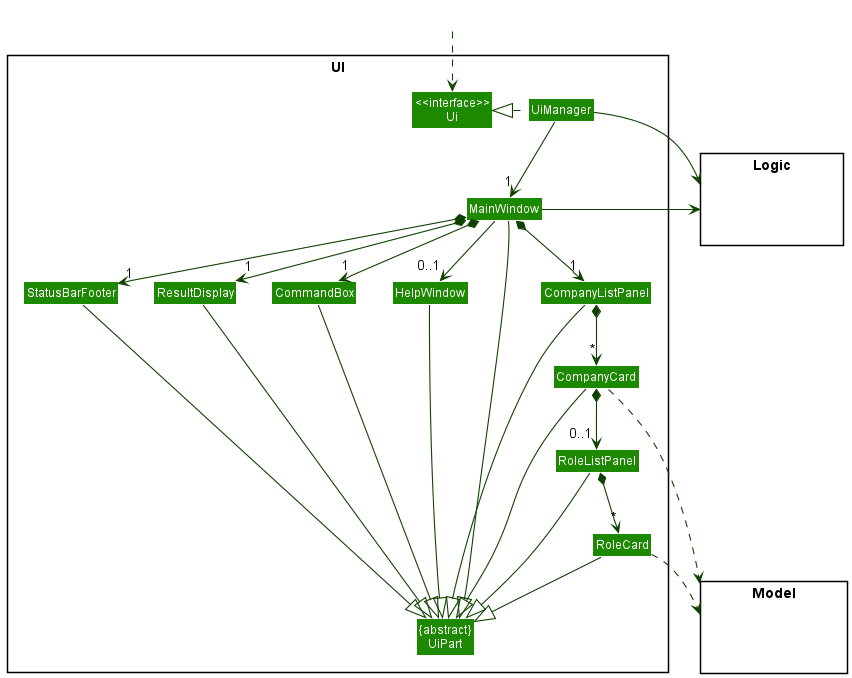
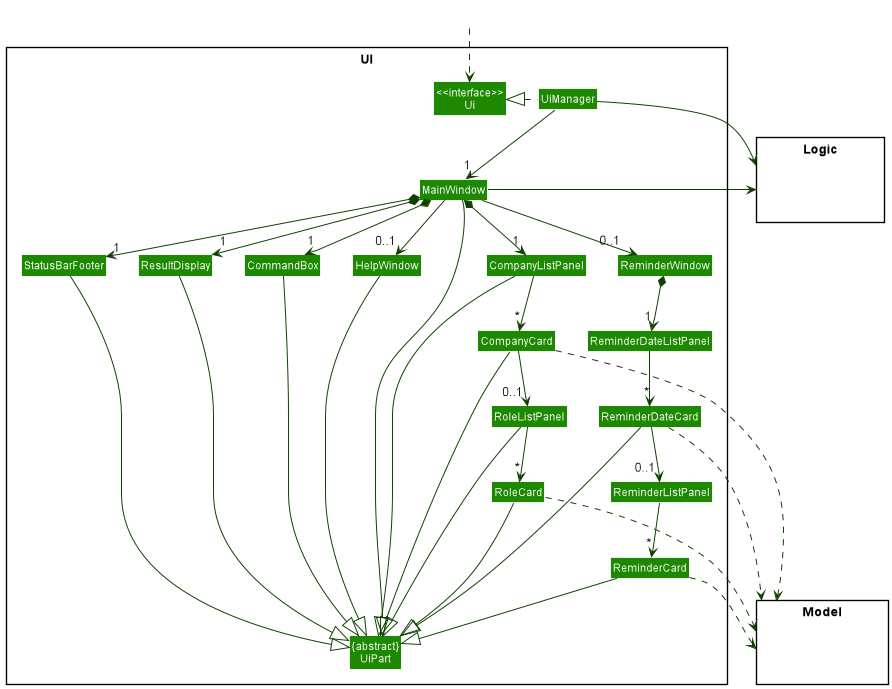
Update DG

diff --git a/docs/DeveloperGuide.md b/docs/DeveloperGuide.md
@@ -23,6 +23,8 @@ title: Developer Guide
         * [Design considerations](#design-considerations-delete)
     * [Reminder feature](#reminder-feature)
         * [Implementation](#implementation-reminder)
+    * [Set reminder window feature](#set-reminder-window-feature)
+        * [Implementation](#implementation-set-reminder-window)
     * [Favourite feature](#favourite-feature)
         * [Implementation](#implementation-favourite)
         * [Design considerations](#design-considerations-favourite)
@@ -204,7 +206,7 @@ Given below is an example usage scenario and how the find feature behaves at eac
 1. The user executes the command `find c/meta r/software mobile` to find roles whose role names contain role name keywords `software` or `mobile`, which belong to companies whose company names contains the company name keyword `meta`.
 2. Then the `FindCommandParser#parse()` creates a `CompanyNameContainsKeywordsPredicate` object and a `RoleNameContainsKeywordsPredicate` object with the role name keywords and company name keyword.
 4. The `FindCommand#execute()` method will update the `model` using the `Model#updateFilteredCompanyList()` method, displaying only roles that match the keywords, and the companies that they belong to.
-5. The `Parser` returns the `CommandResult` which is then executed by LogicManager.
+5. The `Parser` returns the `CommandResult` which is then executed by `LogicManager`.
 
 The following sequence diagram shows how the `find` command operation works with the user input `find c/meta r/software mobile`:
 
@@ -248,7 +250,7 @@ an inner class `EditRoleDescriptor` that holds the changes to fields of the `Rol
 Given below is an example usage scenario and how the edit role feature behaves at each step:
 1. The user executes the command `editRole 1 1 d/react js` to edit the description in the 1<sup>st</sup> role from the 1<sup>st</sup> company.
 2. Then the `EditRoleCommandParser#parse()` creates an `EditRoleDescriptor` object with fields to be modified such as the description `react js` for the `EditRoleCommand`.
-3. The `Parser` returns the `CommandResult` which is then executed by LogicManager.
+3. The `Parser` returns the `CommandResult` which is then executed by `LogicManager`.
 
 The following sequence diagram shows how the `editRole` command operation works with the valid user input `editRole 1 1 d/react js`:
 ![Sequence diagram of the EditRole feature](images/EditRoleSequenceDiagram.png)  
@@ -316,6 +318,28 @@ The following sequence diagram shows how the reminder feature works:
 The following activity diagram summarises what happens when the user opens the application to see upcoming reminders:
 ![Activity diagram of the Reminder feature](images/ReminderActivityDiagram.png)
 
+### Set reminder window feature <a id="set-reminder-window-feature"></a>
+
+The `setWindow` feature allows users to set the reminder window to a specific number of days. Any roles stored in the company list that fall within the set window will be displayed in the reminder pane that automatically opens up on start.
+
+#### Implementation <a id="implementation-set-reminder-window"></a>
+
+![UML diagram of the SetWindow feature](images/SetReminderWindowDiagram.png)
+
+Given below is an example usage scenario and how the set reminder window feature behaves at each step:
+1. The user executes the command `setWindow 14` to set the reminder window to 14 days.
+2. Then the `SetReminderWindowCommandParser#parse()` creates an instance of `SetReminderWindowCommand` by passing the number of days to which the reminder window will be set.
+4. The `SetReminderWindowCommand#execute()` method will update the `model` using the `Model#setReminderWindow()` method, which consequently updates `model.userPrefs` by calling the `UserPrefs#setReminderWindow()` method to update the reminder window as stored in the user preferences.
+6. The `Parser` returns the `CommandResult` which is then executed by `LogicManager`.
+
+The following sequence diagram shows how the `setWindow` command operation works with the user input `setWindow 14`:
+
+![UML sequence diagram of the SetWindow feature](images/SetReminderWindowSequenceDiagram.png)
+
+The following activity diagram summarises what happens when a user executes the `setWindow` command:
+
+![UML activity diagram of the SetWindow feature](images/SetReminderWindowActivityDiagram.png)
+
 ### Favourite feature <a id="favourite-feature"></a>
 
 The `favourite` feature allows users to highlight specific companies. Favourited companies are indicated using a star beside their company name in the GUI.
@@ -329,7 +353,7 @@ Given below is an example usage scenario and how the find feature behaves at eac
 2. Then the `FavouriteCompanyCommandParser#parse()` creates an instance of `FavouriteCompanyCommand` by passing the company index to be favourited.
 4. The `FavouriteCompanyCommand#execute()` method will update the `model` using the `Model#setCompany()` method, updated the model with the favourited company, replacing the previously unfavourited company.
 5. The `model` is then updated with the `Model#updateFilteredCompanyList()` method, displaying all companies and roles in the company list.
-6. The `Parser` returns the `CommandResult` which is then executed by LogicManager.
+6. The `Parser` returns the `CommandResult` which is then executed by `LogicManager`.
 
 The following sequence diagram shows how the `favourite` command operation works with the user input `favourite 1`:
 
